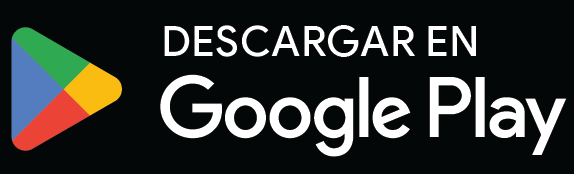
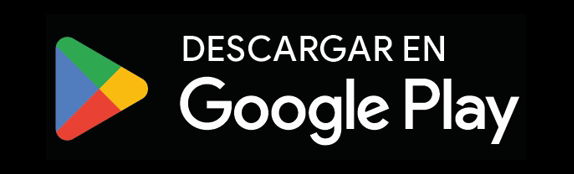
Website: tablet share page, landing page buttons and demo layout, Spanish title
- Share page: content sits higher on a tall portrait tablet
- Landing: store badges only in the hero (the web button is gone; Start Practicing stays in the top bar), Spanish Play badge outline and padding
- Landing: 'Try it right here' laid out sideways from 48rem (sidebar of study modes, wider card, same width as the screenshots), verse centered
- Spanish landing: title 'Memoria Bíblica Simple', tagline 'Guarda las Escrituras en tu corazón'
- Stylesheet and script links carry a version so a changed page never meets an old cached stylesheet
- landing.js: a block whose fade-in end event never fires is settled after 2.5 s (fixes a flaky test too)

Changed region(s): [[0.0, 0.1437, 1.0, 0.9195], [0.2666, 0.1437, 0.8293, 0.3736]]

diff --git a/public/es/landing.html b/public/es/landing.html
@@ -3,11 +3,11 @@
 <head>
 <meta charset="utf-8">
 <meta name="viewport" content="width=device-width, initial-scale=1">
-<title>Simple Bible Memory · Aprende la Escritura de memoria</title>
+<title>Memoria Bíblica Simple · Guarda las Escrituras en tu corazón</title>
 <meta name="description" content="Memoriza versículos de la Biblia con repaso espaciado. No necesitas cuenta. En español e inglés.">
 <meta property="og:type" content="website">
 <meta property="og:site_name" content="Simple Bible Memory">
-<meta property="og:title" content="Simple Bible Memory · Aprende la Escritura de memoria">
+<meta property="og:title" content="Memoria Bíblica Simple · Guarda las Escrituras en tu corazón">
 <meta property="og:description" content="Memoriza versículos de la Biblia con repaso espaciado. No necesitas cuenta. En español e inglés.">
 <meta property="og:image" content="https://simple-bible-memory.web.app/og-image.jpg">
 <meta property="og:image:width" content="1200">
@@ -16,7 +16,7 @@
 <meta property="og:url" content="https://simple-bible-memory.web.app/es">
 <meta property="og:locale" content="es_ES">
 <meta name="twitter:card" content="summary_large_image">
-<meta name="twitter:title" content="Simple Bible Memory · Aprende la Escritura de memoria">
+<meta name="twitter:title" content="Memoria Bíblica Simple · Guarda las Escrituras en tu corazón">
 <meta name="twitter:description" content="Memoriza versículos de la Biblia con repaso espaciado. No necesitas cuenta. En español e inglés.">
 <meta name="twitter:image" content="https://simple-bible-memory.web.app/og-image.jpg">
 <link rel="icon" type="image/svg+xml" href="/favicon.svg">
@@ -26,8 +26,8 @@
 // Text reveal: hide the headings until landing.js has split them into words (visitors who ask for less motion never get this). If the script is slow or missing, show the text after 2.5 seconds.
 if (!matchMedia('(prefers-reduced-motion: reduce)').matches) { document.documentElement.classList.add('reveal-pending'); setTimeout(function () { document.documentElement.classList.remove('reveal-pending'); }, 2500); }
 </script>
-<link rel="stylesheet" href="/landing.css">
-<link rel="stylesheet" href="/footer.css">
+<link rel="stylesheet" href="/landing.css?v=202611102142">
+<link rel="stylesheet" href="/footer.css?v=202611102114">
 <link rel="alternate" hreflang="en" href="/">
 <link rel="alternate" hreflang="es" href="/es">
 </head>
@@ -41,13 +41,10 @@ if (!matchMedia('(prefers-reduced-motion: reduce)').matches) { document.document
 <main>
 <section class="hero">
 <div class="prism" aria-hidden="true"></div>
-<h1>Simple Bible Memory</h1>
-<p class="lead">Aprende la Escritura de memoria</p>
-<div class="actions">
-<a class="button" href="/app">Empezar a practicar</a>
-</div>
+<h1>Memoria Bíblica Simple</h1>
+<p class="lead">Guarda las Escrituras en tu corazón</p>
 <div class="stores">
-<a class="badge" href="https://play.google.com/store/apps/details?id=app.simplebiblememory"><img src="/badges/play-es.png" alt="Disponible en Google Play" width="574" height="174"></a>
+<a class="badge" href="https://play.google.com/store/apps/details?id=app.simplebiblememory"><img src="/badges/play-es.png?v=202611102119" alt="Disponible en Google Play" width="574" height="174"></a>
 <a class="badge" href="https://apps.apple.com/us/app/simple-bible-memory/id6827304569"><img src="/badges/appstore-es.svg" alt="Descargar en el App Store" width="120" height="40"></a>
 </div>
 </section>
@@ -113,6 +110,6 @@ if (!matchMedia('(prefers-reduced-motion: reduce)').matches) { document.document
 </ul>
 </details>
 </footer>
-<script src="/landing.js" defer></script>
+<script src="/landing.js?v=202611102114" defer></script>
 </body>
 </html>

diff --git a/tests/landing.spec.ts b/tests/landing.spec.ts
@@ -11,7 +11,7 @@ const PAGES = [
     typeTab: 'Type', speakTab: 'Speak', blanksTab: 'Fill in the blanks', typeFull: 'For God didn’t give us a spirit of fear, but of power, love, and self-control.', typePartial: 'For God give us a spirit of fear', typeAll: /You remembered 15 of 15 words/, typeSome: /You remembered 8 of 15 words/, check: 'Show answer', speakText: 'Recite verses hands-free while you drive or go about your day. The app reads them back, and you rate yourself for easy, relaxed practice.', langName: 'English', langOther: 'Español', langOtherHref: '/es', langLabel: 'Language', words: ['fear', 'power', 'self-control'], done: /That’s it!/, wrongWord: 'love', wrongNote: /Not quite: the word was “fear”/,
   },
   {
-    lang: 'Spanish', url: '/es/landing.html', other: '/', heading: 'Simple Bible Memory', tagline: 'Aprende la Escritura de memoria', open: 'Empezar a practicar',
+    lang: 'Spanish', url: '/es/landing.html', other: '/', heading: 'Memoria Bíblica Simple', tagline: 'Guarda las Escrituras en tu corazón', open: 'Empezar a practicar',
     play: 'Disponible en Google Play', apple: 'Descargar en el App Store', donate: 'Apoyar en Ko-fi',
     features: ['Sin cuenta', 'Español e inglés', 'Repaso espaciado', 'A tu manera'],
     show: 'Mostrar respuesta', rates: ['Otra vez', 'Difícil', 'Bien', 'Fácil'], goodWhen: /10 min/, next: 'Probar otro versículo', first: 'Proverbios 3:5-6', second: 'Romanos 5:8',
@@ -300,7 +300,7 @@ for (const path of ['/privacy-policy.html', '/terms.html', '/delete-account.html
   });
 }
 
-for (const [lang, path, title] of [['English', '/landing.html', 'Simple Bible Memory'], ['Spanish', '/es/landing.html', 'Simple Bible Memory']] as const) {
+for (const [lang, path, title] of [['English', '/landing.html', 'Simple Bible Memory'], ['Spanish', '/es/landing.html', 'Memoria Bíblica Simple']] as const) {
   test.describe(`${lang}: text reveal`, () => {
     test('the hero words blur in, and then every word is fully visible and the sentence is unchanged', async ({ page }) => {
       await page.goto(path);
@@ -339,15 +339,13 @@ for (const [lang, path, title] of [['English', '/landing.html', 'Simple Bible Me
     test('the hero buttons are quick to appear and, once there, react to hover with no reveal delay', async ({ page }) => {
       await page.setViewportSize({ width: 1280, height: 800 });
       await page.goto(path);
-      const start = page.locator('.hero .actions .button');
-      await expect(start).toHaveAttribute('data-revealed', '', { timeout: 2500 }); // all three buttons within about a second
-      await expect(page.locator('.hero .stores .badge').last()).toHaveAttribute('data-revealed', '', { timeout: 2500 });
+      const start = page.locator('.hero .stores .badge').first();
+      await expect(start).toHaveAttribute('data-revealed', '', { timeout: 4000 }); // both badges within about a second
+      await expect(page.locator('.hero .stores .badge').last()).toHaveAttribute('data-revealed', '', { timeout: 4000 });
       const before = await start.evaluate((el) => getComputedStyle(el).transitionDelay);
       expect(before).toBe('0s'); // nothing left over from the reveal
       await start.hover();
-      await expect(start).toBeEnabled();
-      await start.click();
-      await expect(page).toHaveURL(/\/app$|#\//);
+      await expect(start).toBeVisible(); // (it leads to the store, so it is not clicked here)
     });
 
     test('with reduced motion the text is plain: no split words, nothing hidden', async ({ browser }) => {

diff --git a/public/deck-link.html b/public/deck-link.html
@@ -19,7 +19,7 @@
 <meta name="twitter:description" content="Someone shared a deck of Bible verses with you. · Alguien compartió contigo una carpeta de versículos.">
 <meta name="twitter:image" content="https://simple-bible-memory.web.app/og-image.jpg">
 <link rel="icon" type="image/svg+xml" href="/favicon.svg">
-<link rel="stylesheet" href="/landing.css">
+<link rel="stylesheet" href="/landing.css?v=202611102142">
 <style>
 /* The page a shared deck link opens: one centered card of choices, in the landing page's look. */
 .share.hero { max-width: 46rem; margin: 0 auto; padding: 5rem var(--gutter) 5rem; text-align: center; } /* a .hero: the landing page's scripture-page background and paper grain (landing.css) */
@@ -53,6 +53,9 @@ main { min-height: calc(100vh - 4rem); min-height: calc(100dvh - 4rem); display:
   .share.hero { width: 70vw; margin: 0 auto; padding-top: 7.5rem; padding-bottom: 6.5rem; }
   .share .choices { grid-auto-flow: column; justify-content: center; align-items: center; gap: 1rem; } /* the three buttons in one row */
 }
+@media (min-width: 48rem) and (orientation: portrait) {
+  .share.hero { padding-bottom: calc(6.5rem + max(0px, (100vh - 900px) * 0.7)); } /* a tall tablet held upright: the taller the screen, the higher the content sits (the eye looks above the middle) */
+}
 html, body { overflow-y: clip; } /* the scripture background reaches past the page to fade out; that must not make the page scroll */
 [hidden] { display: none !important; }
 </style>
@@ -69,7 +72,7 @@ html, body { overflow-y: clip; } /* the scripture background reaches past the pa
 <div class="choices">
 <a class="button store-like" id="open-app" href="#" hidden>Open in the app</a>
 <a class="button store-like" id="open-web" href="/app"><svg viewBox="0 0 24 24" width="30" height="30" fill="none" stroke="currentColor" stroke-width="1.6" stroke-linecap="round" stroke-linejoin="round" aria-hidden="true"><circle cx="12" cy="12" r="9.5"/><path d="M2.5 12h19"/><path d="M12 2.5c2.6 2.6 4 5.9 4 9.5s-1.4 6.9-4 9.5c-2.6-2.6-4-5.9-4-9.5s1.4-6.9 4-9.5z"/></svg><span><small id="web-small">Open in your</small><b id="web-big">Web Browser</b></span></a>
-<a class="badge" id="play" href="https://play.google.com/store/apps/details?id=app.simplebiblememory"><img id="play-img" src="/badges/play-en.png" alt="Get it on Google Play" width="574" height="174"></a>
+<a class="badge" id="play" href="https://play.google.com/store/apps/details?id=app.simplebiblememory"><img id="play-img" src="/badges/play-en.png?v=202611102119" alt="Get it on Google Play" width="574" height="174"></a>
 <a class="badge" id="appstore" href="" hidden><img id="appstore-img" src="/badges/appstore-en.svg" alt="Download on the App Store" width="120" height="40"></a>
 </div>
 </section>
@@ -98,7 +101,7 @@ html, body { overflow-y: clip; } /* the scripture background reaches past the pa
   $('title').textContent = t.title;
   $('lead').textContent = t.lead;
   $('web-small').textContent = t.webSmall; $('web-big').textContent = t.webBig; $('open-web').setAttribute('aria-label', t.web);
-  $('play-img').src = '/badges/play-' + lang + '.png'; $('play-img').alt = t.play;
+  $('play-img').src = '/badges/play-' + lang + '.png?v=202611102119'; $('play-img').alt = t.play;
   $('appstore-img').src = '/badges/appstore-' + lang + '.svg'; $('appstore-img').alt = t.store;
   if (APP_STORE_URL) { $('appstore').href = APP_STORE_URL; $('appstore').hidden = false; }
 

diff --git a/public/landing.css b/public/landing.css
@@ -348,8 +348,26 @@ h1 {
 }
 .stores .badge img {
   display: block;
-  height: 3.25rem; /* the two store badges, the same height */
+  height: 100%;
   width: auto;
+}
+/* the two store badges, the same height */
+.stores .badge {
+  height: 3.75rem;
+}
+/* on a phone they stack, all the same width */
+@media (max-width: 47.99rem) {
+  .stores {
+    flex-direction: column;
+  }
+  .stores .badge {
+    width: 10.5rem;
+    height: auto;
+  }
+  .stores .badge img {
+    width: 100%;
+    height: auto;
+  }
 }
 
 /* demo: it looks like the app's own study screen (the card in the middle, the buttons along the bottom) */
@@ -383,6 +401,32 @@ h1 {
 @media (max-width: 30rem) {
   .tabs {
     grid-template-columns: repeat(2, 1fr);
+  }
+}
+/* On a tablet or desktop the demo is laid out sideways, as wide as the screenshots below: the ways to study down the left, the card on the right */
+@media (min-width: 48rem) {
+  .demo {
+    display: grid;
+    grid-template-columns: 15rem 1fr;
+    column-gap: 2rem;
+    align-items: stretch; /* the sidebar runs the whole height of the card */
+    max-width: 56rem;
+  }
+  .tabs {
+    grid-template-columns: 1fr;
+    align-content: start;
+    gap: 0.25rem;
+    margin: 0;
+  }
+  .tab {
+    min-height: 3rem;
+    padding: 0.5rem 1rem;
+    text-align: left;
+    font-size: 0.9375rem;
+  }
+  .demo-card {
+    grid-column: 2;
+    min-height: 31rem;
   }
 }
 .tab[aria-pressed='true'] {
@@ -433,6 +477,12 @@ h1 {
 .d-verse.left {
   text-align: left;
   font-size: 1.125rem;
+}
+/* a verse set in left-aligned lines stays a column in the middle of the card, so on a wide card it lines up with the title and the buttons */
+.d-verse.left,
+.d-verse.blanks {
+  width: 100%;
+  max-width: 30rem;
 }
 .d-verse.blanks {
   text-align: left;
@@ -800,5 +850,21 @@ h1 {
     transform: none;
     filter: none;
     transition: none;
+  }
+}
+
+/* Google's Spanish Play badge comes without the grey outline the English one has: it is drawn here, so it matches the others on a dark page */
+img[src*='play-es'] {
+  box-sizing: border-box;
+  border: 1px solid #a6a6a6;
+  border-radius: 0.45rem;
+}
+
+/* on the wide demo card the verse's lines are centered too (left-aligned lines in a column leave the empty space on the right, which looks off-center) */
+@media (min-width: 48rem) {
+  .d-verse.left,
+  .d-verse.blanks {
+    text-align: center;
+    text-wrap: balance;
   }
 }

diff --git a/public/landing.html b/public/landing.html
@@ -26,8 +26,8 @@
 // Text reveal: hide the headings until landing.js has split them into words (visitors who ask for less motion never get this). If the script is slow or missing, show the text after 2.5 seconds.
 if (!matchMedia('(prefers-reduced-motion: reduce)').matches) { document.documentElement.classList.add('reveal-pending'); setTimeout(function () { document.documentElement.classList.remove('reveal-pending'); }, 2500); }
 </script>
-<link rel="stylesheet" href="/landing.css">
-<link rel="stylesheet" href="/footer.css">
+<link rel="stylesheet" href="/landing.css?v=202611102142">
+<link rel="stylesheet" href="/footer.css?v=202611102114">
 <link rel="alternate" hreflang="en" href="/">
 <link rel="alternate" hreflang="es" href="/es">
 </head>
@@ -43,11 +43,8 @@ if (!matchMedia('(prefers-reduced-motion: reduce)').matches) { document.document
 <div class="prism" aria-hidden="true"></div>
 <h1>Simple Bible Memory</h1>
 <p class="lead">Learn scripture by heart</p>
-<div class="actions">
-<a class="button" href="/app">Start Practicing</a>
-</div>
 <div class="stores">
-<a class="badge" href="https://play.google.com/store/apps/details?id=app.simplebiblememory"><img src="/badges/play-en.png" alt="Get it on Google Play" width="574" height="174"></a>
+<a class="badge" href="https://play.google.com/store/apps/details?id=app.simplebiblememory"><img src="/badges/play-en.png?v=202611102119" alt="Get it on Google Play" width="574" height="174"></a>
 <a class="badge" href="https://apps.apple.com/us/app/simple-bible-memory/id6827304569"><img src="/badges/appstore-en.svg" alt="Download on the App Store" width="120" height="40"></a>
 </div>
 </section>
@@ -113,6 +110,6 @@ if (!matchMedia('(prefers-reduced-motion: reduce)').matches) { document.document
 </ul>
 </details>
 </footer>
-<script src="/landing.js" defer></script>
+<script src="/landing.js?v=202611102114" defer></script>
 </body>
 </html>

diff --git a/public/landing.js b/public/landing.js
@@ -26,7 +26,7 @@
   var phoneStrip = matchMedia('(max-width: 48rem)').matches; // on a phone the screenshots are a swipeable strip, so it reveals as one piece
   var groups = [
     { sel: ['.top .brand', '.top nav .button'], base: 0 }, // the top bar and the hero buttons play on load, after the title
-    { sel: ['.hero .actions .button', '.hero .stores .badge'], base: 420, step: 70 },
+    { sel: ['.hero .stores .badge'], base: 420, step: 70 },
     { sel: ['#demo'], base: 0 },
     { sel: phoneStrip ? ['.shots'] : ['.shots .shot'], base: 0 },
     { sel: ['.grid li'], base: 0 },
@@ -46,6 +46,8 @@
   blocks.forEach(function (el) {
     // the rise (transform) always changes, even for a button whose own styles keep its opacity fixed
     el.addEventListener('transitionend', function (e) { if (e.target === el && e.propertyName === 'transform' && el.classList.contains('rv-go')) settle(el); });
+    // If the browser never reports the end of the animation (a busy or background tab skips it), the block is handed back anyway.
+    new MutationObserver(function () { if (el.classList.contains('rv-go') && el.classList.contains('rv-block')) setTimeout(function () { settle(el); }, 2500); }).observe(el, { attributes: true, attributeFilter: ['class'] });
   });
   root.classList.remove('reveal-pending');
   if (title) title.classList.add('rv-go');

diff --git a/public/es/privacy-policy.html b/public/es/privacy-policy.html
@@ -7,7 +7,7 @@
 <meta name="description" content="Qué guarda Memoria Bíblica Simple, adónde va y quién puede verlo.">
 <link rel="icon" type="image/svg+xml" href="/favicon.svg">
 <link rel="stylesheet" href="/legal.css">
-<link rel="stylesheet" href="/footer.css">
+<link rel="stylesheet" href="/footer.css?v=202611102114">
 <link rel="alternate" hreflang="en" href="/privacy-policy">
 <link rel="alternate" hreflang="es" href="/es/privacy-policy">
 </head>
@@ -83,6 +83,6 @@
 </ul>
 </details>
 </footer>
-<script src="/landing.js" defer></script>
+<script src="/landing.js?v=202611102114" defer></script>
 </body>
 </html>

diff --git a/public/privacy-policy.html b/public/privacy-policy.html
@@ -7,7 +7,7 @@
 <meta name="description" content="What Simple Bible Memory stores, where it goes, and who can see it.">
 <link rel="icon" type="image/svg+xml" href="/favicon.svg">
 <link rel="stylesheet" href="/legal.css">
-<link rel="stylesheet" href="/footer.css">
+<link rel="stylesheet" href="/footer.css?v=202611102114">
 <link rel="alternate" hreflang="en" href="/privacy-policy">
 <link rel="alternate" hreflang="es" href="/es/privacy-policy">
 </head>
@@ -83,6 +83,6 @@
 </ul>
 </details>
 </footer>
-<script src="/landing.js" defer></script>
+<script src="/landing.js?v=202611102114" defer></script>
 </body>
 </html>

diff --git a/public/es/delete-account.html b/public/es/delete-account.html
@@ -7,7 +7,7 @@
 <meta name="description" content="Cómo eliminar tu cuenta y tus datos de Memoria Bíblica Simple.">
 <link rel="icon" type="image/svg+xml" href="/favicon.svg">
 <link rel="stylesheet" href="/legal.css">
-<link rel="stylesheet" href="/footer.css">
+<link rel="stylesheet" href="/footer.css?v=202611102114">
 <link rel="alternate" hreflang="en" href="/delete-account">
 <link rel="alternate" hreflang="es" href="/es/delete-account">
 </head>
@@ -61,6 +61,6 @@
 </ul>
 </details>
 </footer>
-<script src="/landing.js" defer></script>
+<script src="/landing.js?v=202611102114" defer></script>
 </body>
 </html>

diff --git a/public/es/terms.html b/public/es/terms.html
@@ -7,7 +7,7 @@
 <meta name="description" content="Las normas para usar Memoria Bíblica Simple y publicar carpetas públicas.">
 <link rel="icon" type="image/svg+xml" href="/favicon.svg">
 <link rel="stylesheet" href="/legal.css">
-<link rel="stylesheet" href="/footer.css">
+<link rel="stylesheet" href="/footer.css?v=202611102114">
 <link rel="alternate" hreflang="en" href="/terms">
 <link rel="alternate" hreflang="es" href="/es/terms">
 </head>
@@ -72,6 +72,6 @@
 </ul>
 </details>
 </footer>
-<script src="/landing.js" defer></script>
+<script src="/landing.js?v=202611102114" defer></script>
 </body>
 </html>

diff --git a/public/delete-account.html b/public/delete-account.html
@@ -7,7 +7,7 @@
 <meta name="description" content="How to delete your Simple Bible Memory account and data.">
 <link rel="icon" type="image/svg+xml" href="/favicon.svg">
 <link rel="stylesheet" href="/legal.css">
-<link rel="stylesheet" href="/footer.css">
+<link rel="stylesheet" href="/footer.css?v=202611102114">
 <link rel="alternate" hreflang="en" href="/delete-account">
 <link rel="alternate" hreflang="es" href="/es/delete-account">
 </head>
@@ -61,6 +61,6 @@
 </ul>
 </details>
 </footer>
-<script src="/landing.js" defer></script>
+<script src="/landing.js?v=202611102114" defer></script>
 </body>
 </html>

diff --git a/public/terms.html b/public/terms.html
@@ -7,7 +7,7 @@
 <meta name="description" content="The rules for using Simple Bible Memory and publishing public decks.">
 <link rel="icon" type="image/svg+xml" href="/favicon.svg">
 <link rel="stylesheet" href="/legal.css">
-<link rel="stylesheet" href="/footer.css">
+<link rel="stylesheet" href="/footer.css?v=202611102114">
 <link rel="alternate" hreflang="en" href="/terms">
 <link rel="alternate" hreflang="es" href="/es/terms">
 </head>
@@ -72,6 +72,6 @@
 </ul>
 </details>
 </footer>
-<script src="/landing.js" defer></script>
+<script src="/landing.js?v=202611102114" defer></script>
 </body>
 </html>
